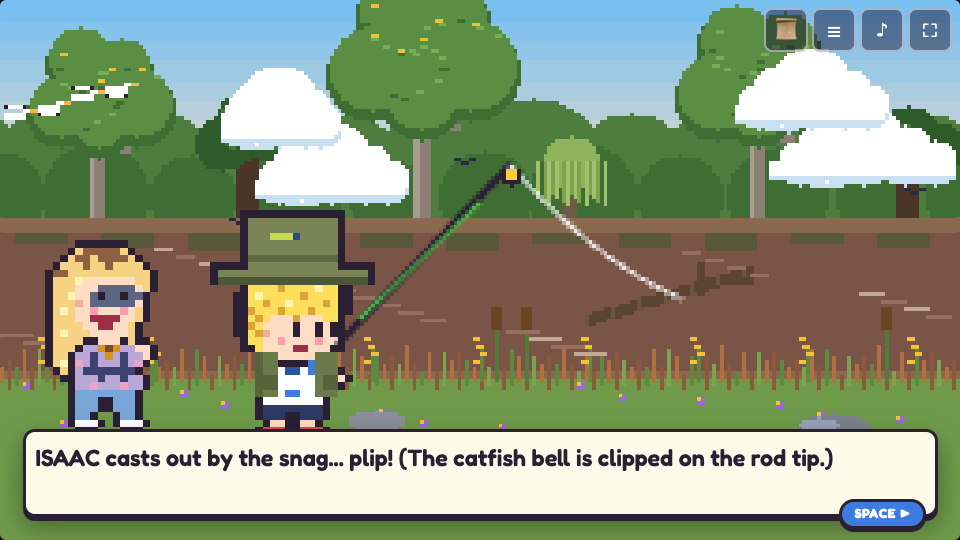
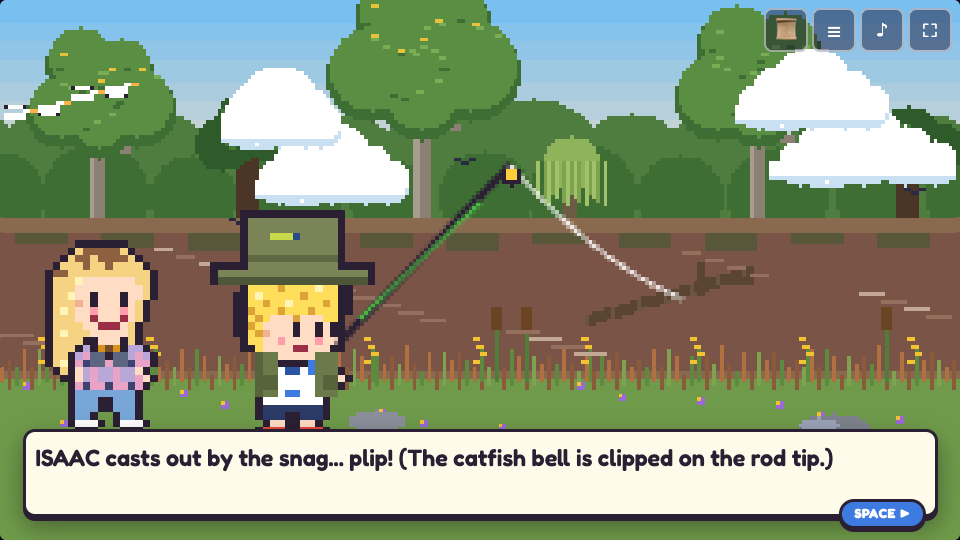
Cleanup pass: Mom's binoculars hang on a neck strap, small smile, softer plaid; Dad portrait symmetric with a centered grin + mustache; refreshed report shots

Changed region(s): [[0.0625, 0.5037, 0.1875, 0.7407]]

diff --git a/js/sprites.js b/js/sprites.js
@@ -160,19 +160,18 @@ const MOM_HEAD = [
   'MMhsskssskssM.',
   'MMMSsksssksM..',
   'MhMsspssspsM..',
-  'MMMssmmmmssM..',
-  'MMMMssmmssM...',
+  'MMMssmsssmsM..',
+  'MMMMssmmmsM...',
   'MhMMMsssssM...',
   'MMMM..sss.M...',
 ];
-const MOM_BINOC = { 5: 'MMMsssGGGGGsM.', 6: 'MMhssGkGGkGG..', 7: 'MMMSsGGGGGGs..' };
 const MOM_BODY = {
-  side: ['MMM.IIJxJIII..', 'MM.IIHIJIHIII.', 'Mh.PIHIIIHIPI.', '.M.sHHHHHHHs..', '...sIIHIIHIIs.', '...IIPIIIPII..'],
-  wave: ['MMM.IIJxJII.ss', 'MM.IIHIJIHIIs.', 'Mh.PIHIIIHIP..', '.M.sHHHHHHH...', '...sIIHIIHII..', '...IIPIIIPII..'],
-  binoc: ['MMM.IIJxJIIss.', 'MM.IIHIJIHIIs.', 'Mh.PIHIIIHIP..', '.M.IHHHHHHH...', '...IIIHIIHII..', '...IIPIIIPII..'],
+  side: ['MMM.IIJxJIII..', 'MM.IPIJIPIIPI.', 'Mh.PHPPHPPHPP.', '.M.sIPIIPIIs..', '...sIPIIPIIPs.', '...PHPPHPPHP..'],
+  wave: ['MMM.IIJxJII.ss', 'MM.IPIJIPIIPs.', 'Mh.PHPPHPPHP..', '.M.sIPIIPII...', '...sIPIIPIIP..', '...PHPPHPPHP..'],
+  binoc: ['MMM.IkJxJkII..', 'MM.IPGGkGGIPI.', 'Mh.PHGGPGGHPP.', '.M.sIPIIPIIs..', '...sIPIIPIIPs.', '...PHPPHPPHP..'],
 };
 const MOM = (legs, arms = 'side') => [
-  ...MOM_HEAD.map((r, i) => (arms === 'binoc' && MOM_BINOC[i]) || r),
+  ...MOM_HEAD,
   ...MOM_BODY[arms],
   '...LLLLLLLL...',
   ...(legs === 'a'
@@ -388,16 +387,16 @@ const P_DAD = [
   '.Sssssssssssssssssssss.',
   '.Ssssskkssssssskksssss.',
   '.Sssskwkssssssskwkssss.',
-  '..sssssssssSssssssssss.',
-  '..sssssssssSSsssssssss.',
-  '..eEeeksssssssssssekEe.',
-  '..eeeeemmmmmmmmmmmeeee.',
-  '..eeEeemwwwwwwwwwmeeee.',
-  '..eeeeeemwwwwwwwmeeEee.',
-  '...eeEeeemmmmmmmeeeee..',
-  '....eeeeeeeeEeeeeeee...',
-  '......eeeeeeeeeeee.....',
-  '........ssssssss.......',
+  '..sssssssssSsssssssss..',
+  '..ssssssssSsSssssssss..',
+  '..eEsseeeEeeeEeeessEe..',
+  '..eeEemmmmmmmmmmmeEee..',
+  '..eEeemwwwwwwwwwmeeEe..',
+  '..eeEeemwwwwwwwmeeEee..',
+  '...eeEeemmmmmmmeeEee...',
+  '....eEeeeeEeeeeeEee....',
+  '......eeeeeeeeeee......',
+  '........sssssss........',
   '...llllllssssssllllll..',
   '.lllllllllsjslllllllll.',
   'lllllllllllllllllllllll',
